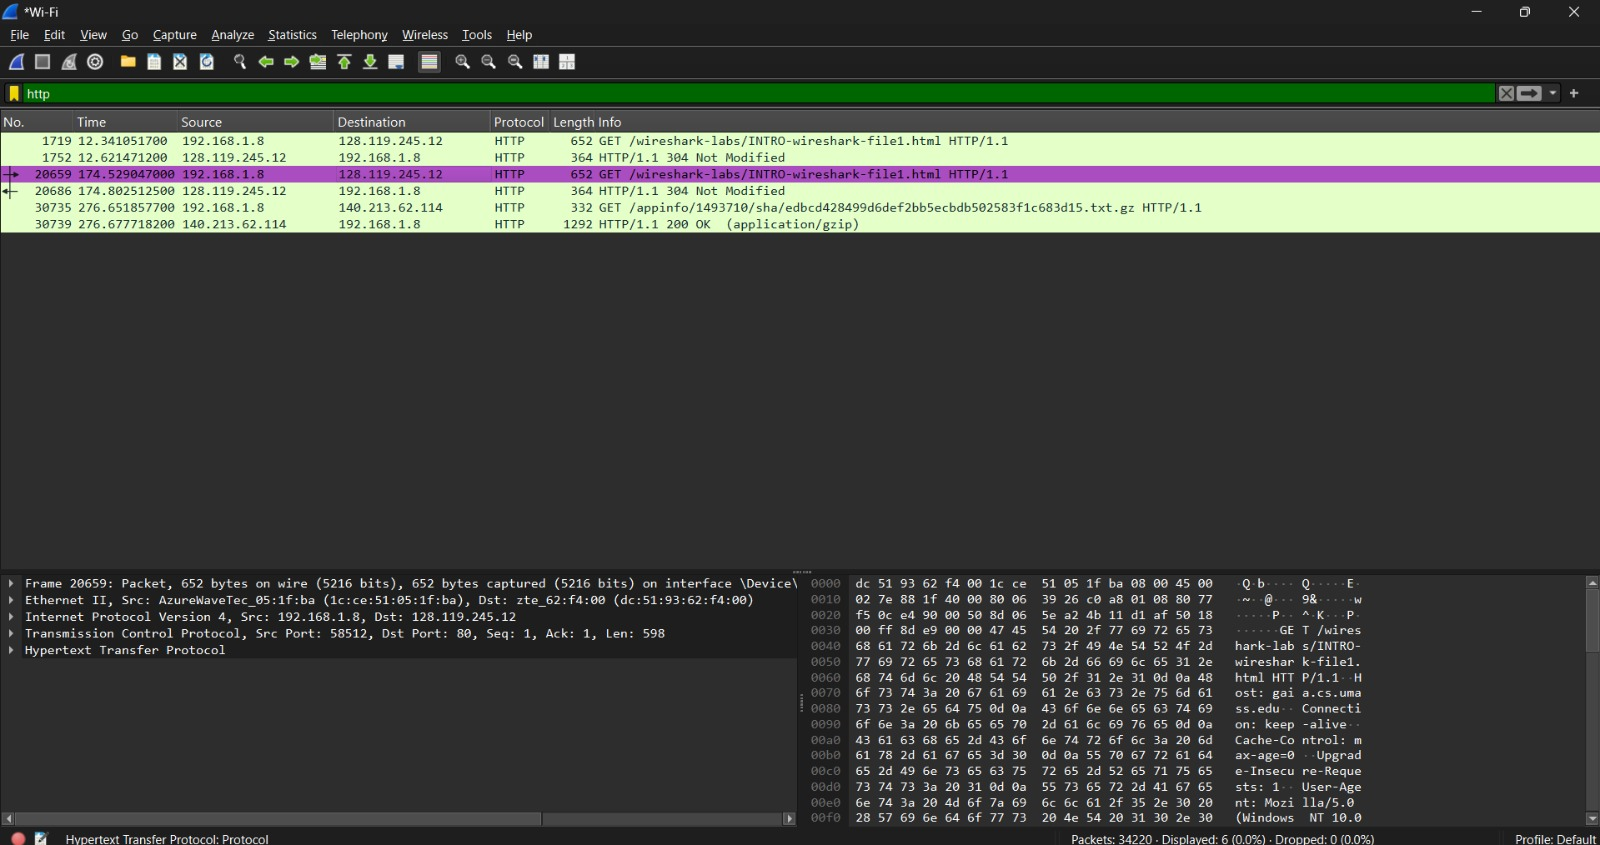
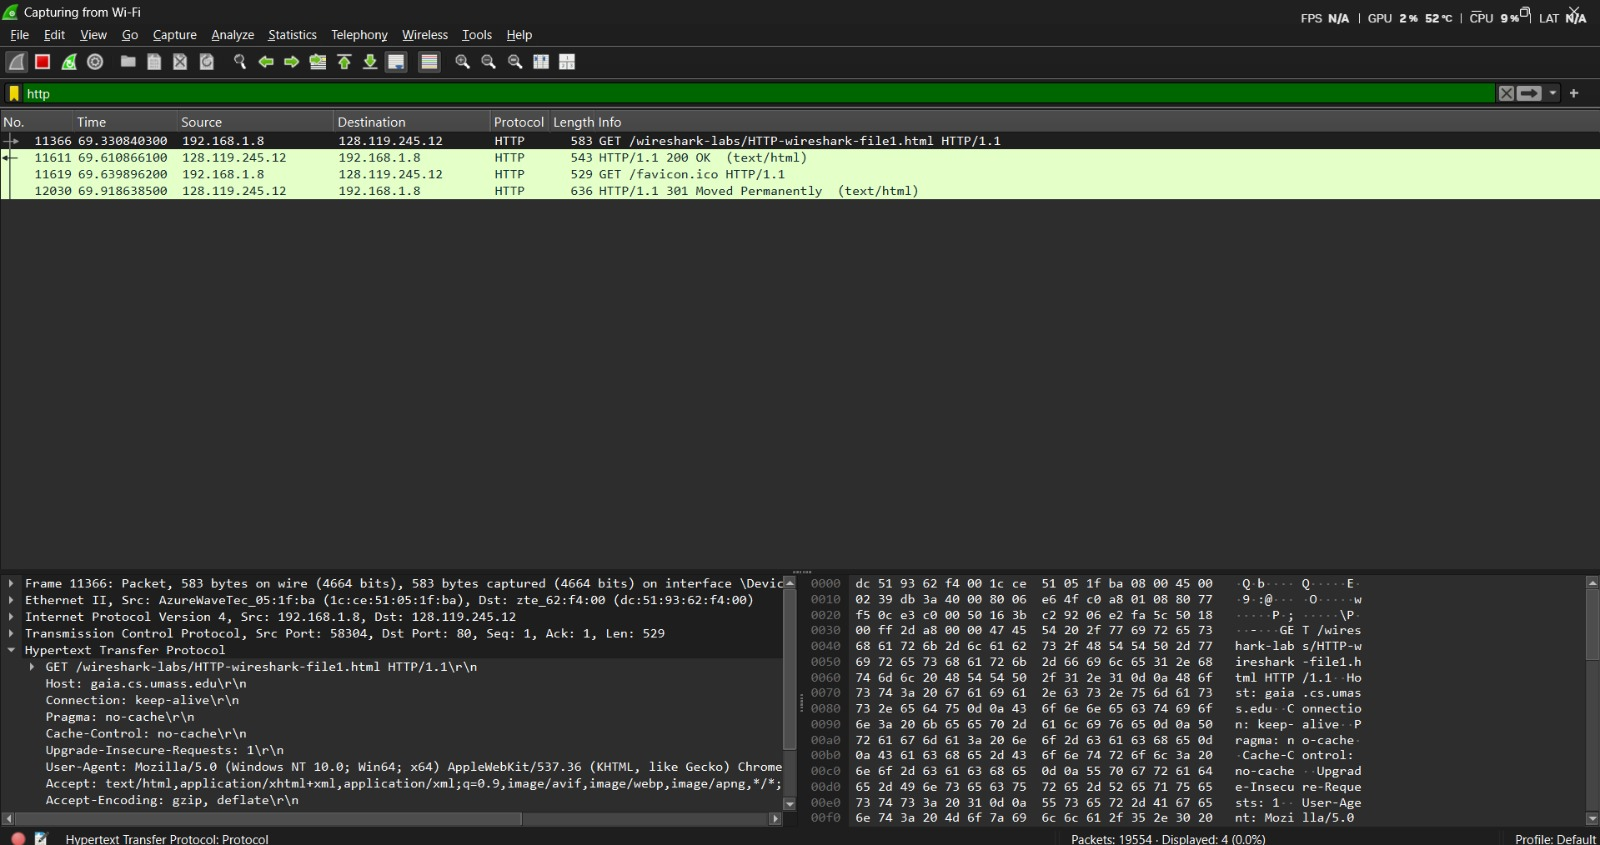
.
.

diff --git a/Week3/Laporan.md b/Week3/Laporan.md
@@ -56,11 +56,60 @@ Untuk skenario autentikasi, digunakan parameter login sebagai berikut:
 ### 4.1 Basic HTTP GET/Response
 ![Wireshark](./Assets/BasicGET.jpeg)
 
+| Field | Nilai pada Request | Nilai pada Response |
+| :--- | :--- | :--- |
+| **Method / Status** | `GET` | `200 OK` |
+| **Host / Server** | `gaia.cs.umass.edu` | `Apache/2.4.41` |
+| **Content-Type** | `text/html, application/xhtml+xml` | `text/html; charset=ISO-8859-1` |
+
+---
+
+### 4.2 HTTP Conditional GET
+![Wireshark](./Assets/ConditionalGET.jpeg)
+
 | Percobaan | Header Khusus | Status Code | Keterangan |
 | :--- | :--- | :--- | :--- |
 | **Akses Pertama** | - | `200 OK` | Server mengirimkan konten secara penuh. |
-| **Akses Kedua (Refresh)** | `If-Modified-Since` | `304 Not Modified` | Konten tidak berubah, browser menggunakan cache lokal. |
+| **Akses Kedua (Refresh)** | `If-Modified-Since` | `301 Moved Permanently` | Konten tidak berubah, browser menggunakan cache lokal. |
 
+---
 
+### 4.3 Retrieving Long Documents
+![Wireshark](./Assets/LongDocument.png)
+
+-Respons HTTP tidak muat dalam satu paket TCP.
+
+-Wireshark menampilkan keterangan [TCP segment of a reassembled PDU].
+
+-Ini menunjukkan bahwa lapisan transportasi (TCP) memecah data besar menjadi segmen-segmen kecil sebelum dikirim.
+---
+
+### 4.4 HTML Documents dengan Embedded Objects
+![Wireshark](./Assets/HTMLDocument.jpeg)
+
+| Resource | Server | Method | Status |
+| :--- | :--- | :--- | :--- |
+| `file4.html` | `gaia.cs.umass.edu` | `GET` | `200 OK` |
+| `pearson.png` | `gaia.cs.umass.edu` | `GET` | `200 OK` |
+| `8E_cover_small.jpg` | `caite.cs.umass.edu` | `GET` | `200 OK` |
+
+---
+
+### 4.5 HTTP Authentication
+![Wireshark](./Assets/HTTPAuthentication.jpeg)
+| Tahap | Request | Response Server |
+| :--- | :--- | :--- |
+| **1 (tanpa auth)** | `GET /protected/...` | `401 Authorization Required` |
+| **2 (dengan auth)** | `GET ... + Authorization: Basic ...` | `200 OK + konten halaman` |
+---
 
 ### 5. Kesimpulan
+1. Wireshark efektif untuk analisis HTTP yang dimana Memungkinkan inspeksi header, method, status code secara real-time
+
+2. HTTP bersifat stateless + mendukung caching	Conditional GET (301) meningkatkan efisiensi tanpa ubah logika aplikasi
+
+3. TCP menangani fragmentasi data besar	Developer tidak perlu kelola ukuran payload — TCP otomatis memecah
+
+4. Embedded objects memicu multiple requests	Browser modern melakukan request paralel untuk percepat loading
+
+5. HTTP Basic Auth tidak aman tanpa HTTPS	Base64 mudah didecode; selalu enkripsi traffic sensitif dengan TLS